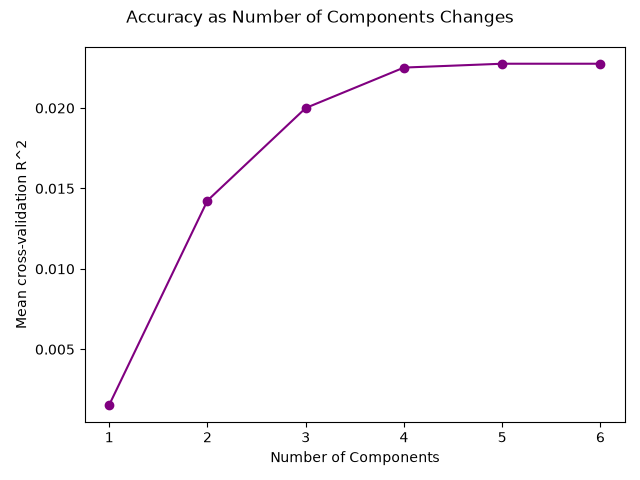
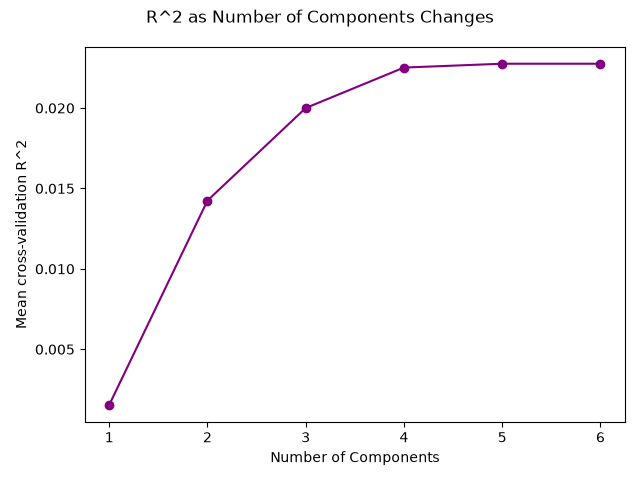
Finishing touches to HW4

Changed region(s): [[0.1875, 0.0, 0.8125, 0.0625]]

diff --git a/homework4/knn.py b/homework4/knn.py
@@ -111,11 +111,11 @@ def build_pipeline(model_type: str,
         return None        
 
 ###################################################################################
-# PART 1: DRAW KNN DECISION BOUNDARIES
+# PART 1: DRAW KNN DECISION REGIONS
 ###################################################################################
 
 print()
-print("=" * 10, "PART 1: DECISION BOUNDARIES", "=" * 10)
+print("=" * 10, "PART 1: DECISION REGIONS", "=" * 10)
 
 # Split target from features
 cat_target = songs[CAT_TARGET]
@@ -130,7 +130,7 @@ fig, ax = plt.subplots(nrows=len(k_values), ncols=1, figsize=(10, 3 * len(k_valu
 # Get color map
 cmap = plt.get_cmap("viridis_r")
 
-# Fill plot with decision boundaries
+# Fill plot with decision regions
 for i in range(len(k_values)):
 
     # Get KNN pipeline
@@ -143,7 +143,7 @@ for i in range(len(k_values)):
     # Fit pipeline
     knn_pipeline.fit(features_df, cat_target)
 
-    # Get decision boundaries
+    # Get decision regions
     DecisionBoundaryDisplay.from_estimator(
         knn_pipeline,
         features_df,
@@ -173,13 +173,13 @@ fig.legend(handles=[
         Patch(color=cmap(0.0), label="minor"),
         Patch(color=cmap(1.0), label="major"),
     ])
-fig.suptitle("Decision Boundaries as k-value Changes")
+fig.suptitle("Decision Regions as k-value Changes")
 fig.tight_layout(h_pad=2)
-fig.savefig("decision_boundaries.png")
+fig.savefig("decision_regions.png")
 plt.close(fig)
 
 print()
-print("Successfully saved 'decision_boundaries.png'...")
+print("Successfully saved 'decision_regions.png'...")
 
 ###################################################################################
 # PART 2: FIND GOOD K-VALUE
@@ -236,7 +236,7 @@ ax.set_xlabel("Number of Neighbors")
 ax.set_ylabel("Mean cross-validation accuracy")
 fig.suptitle("Accuracy as k-value Changes")
 fig.tight_layout(h_pad=2)
-fig.savefig("accuracy.png")
+fig.savefig("knn_accuracy.png")
 plt.close(fig)
 
 print()

diff --git a/homework4/pca.py b/homework4/pca.py
@@ -340,7 +340,7 @@ r2_scores = grid.cv_results_["mean_test_score"]
 ax.plot(n_comps, r2_scores, marker="o", color="purple")
 ax.set_xlabel("Number of Components")
 ax.set_ylabel("Mean cross-validation R^2")
-fig.suptitle("Accuracy as Number of Components Changes")
+fig.suptitle("R^2 as Number of Components Changes")
 fig.tight_layout(h_pad=2)
 fig.savefig("pcr_r2.png")
 plt.close(fig)
